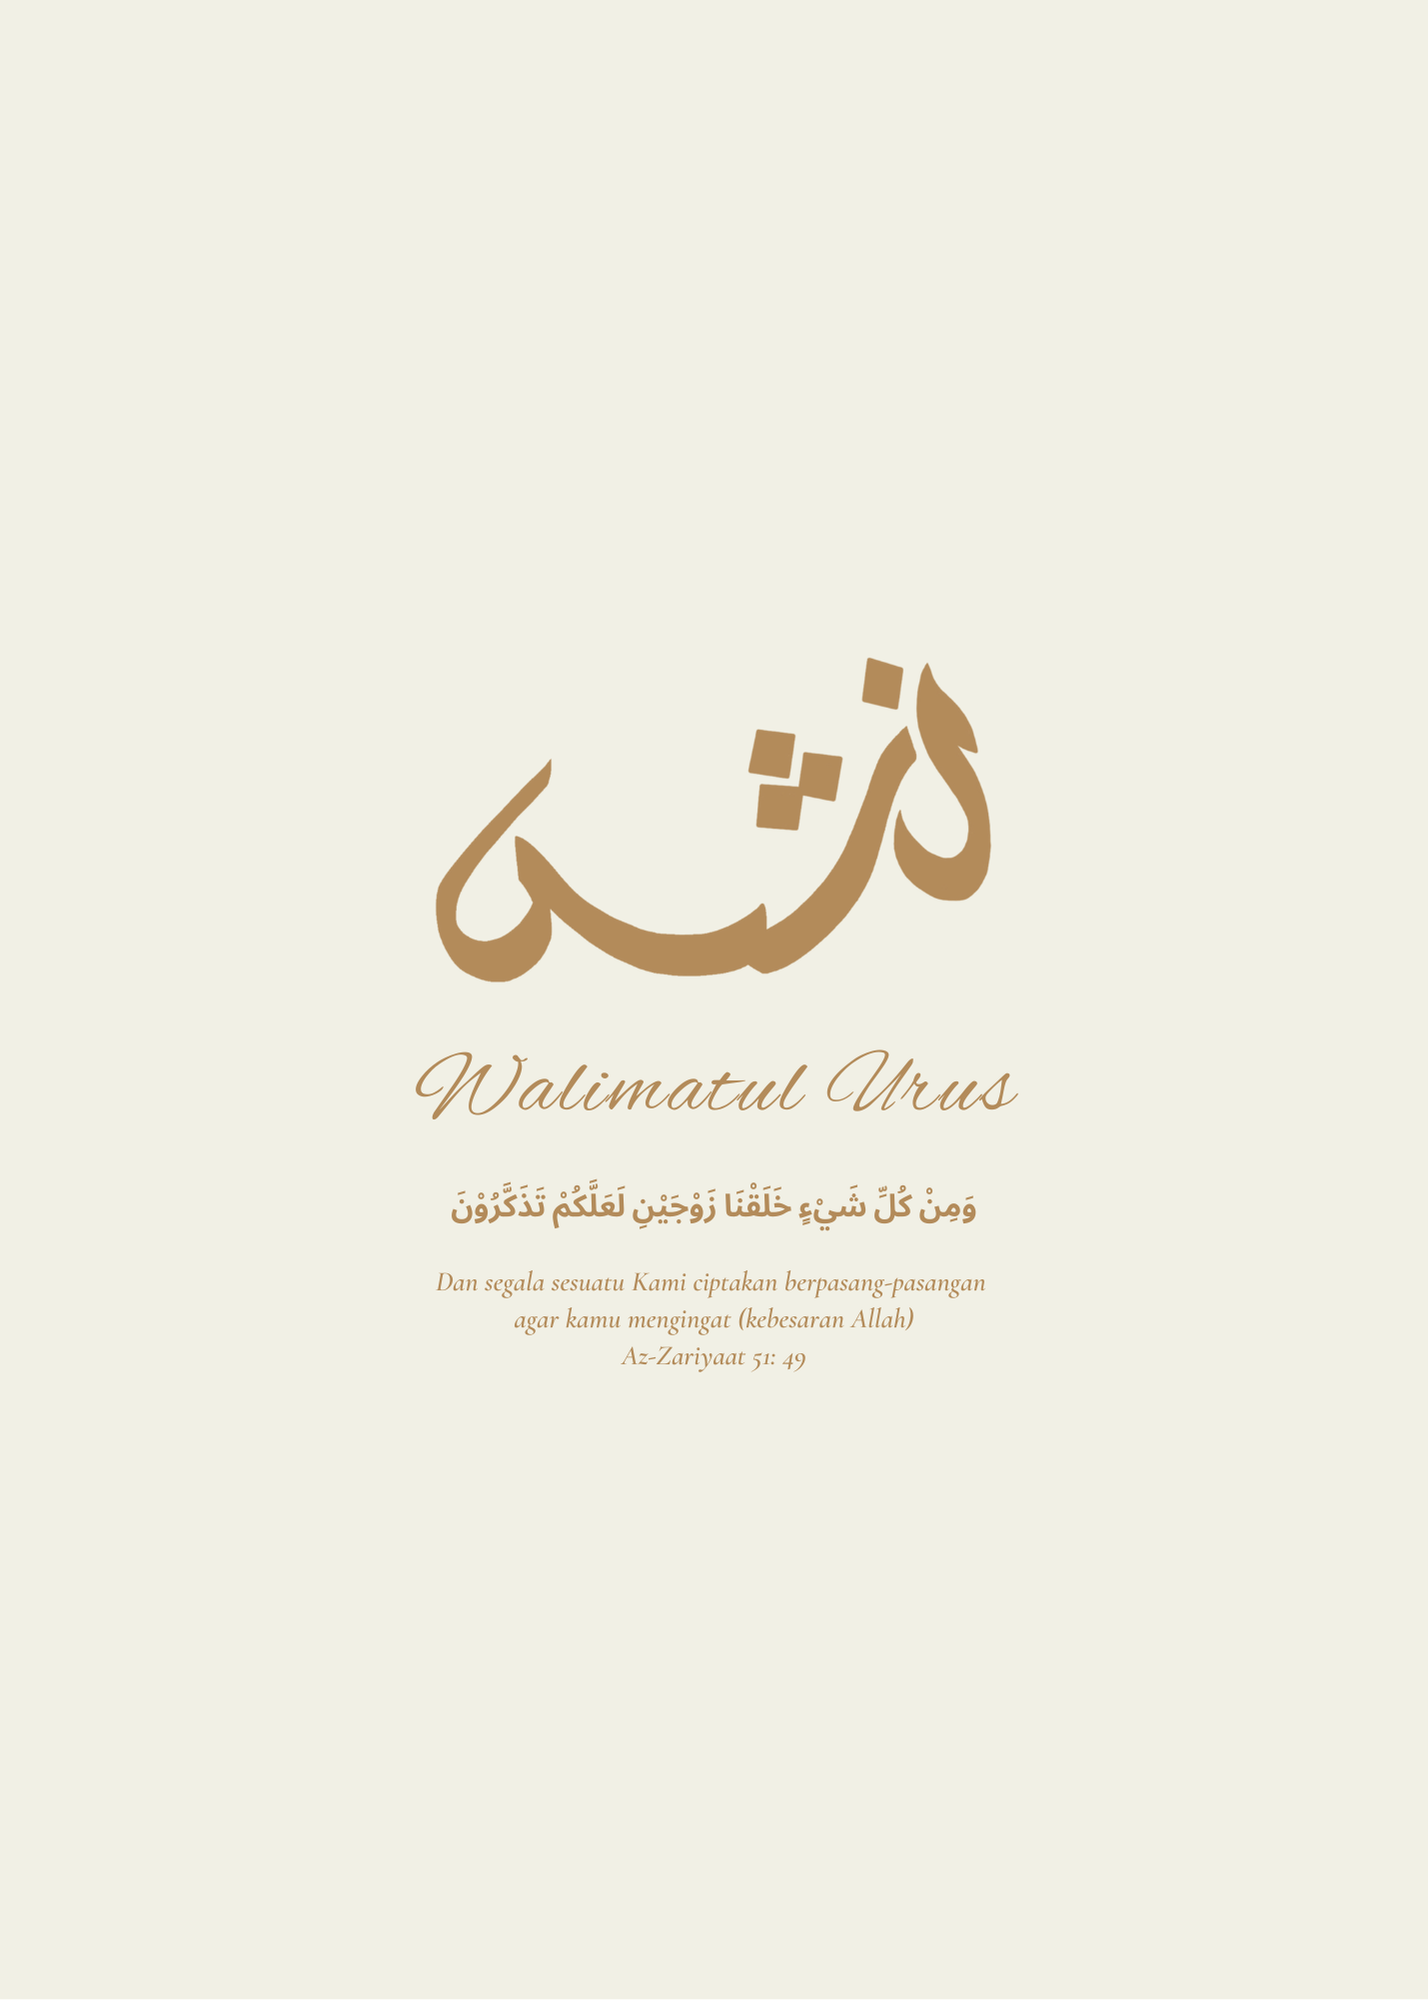
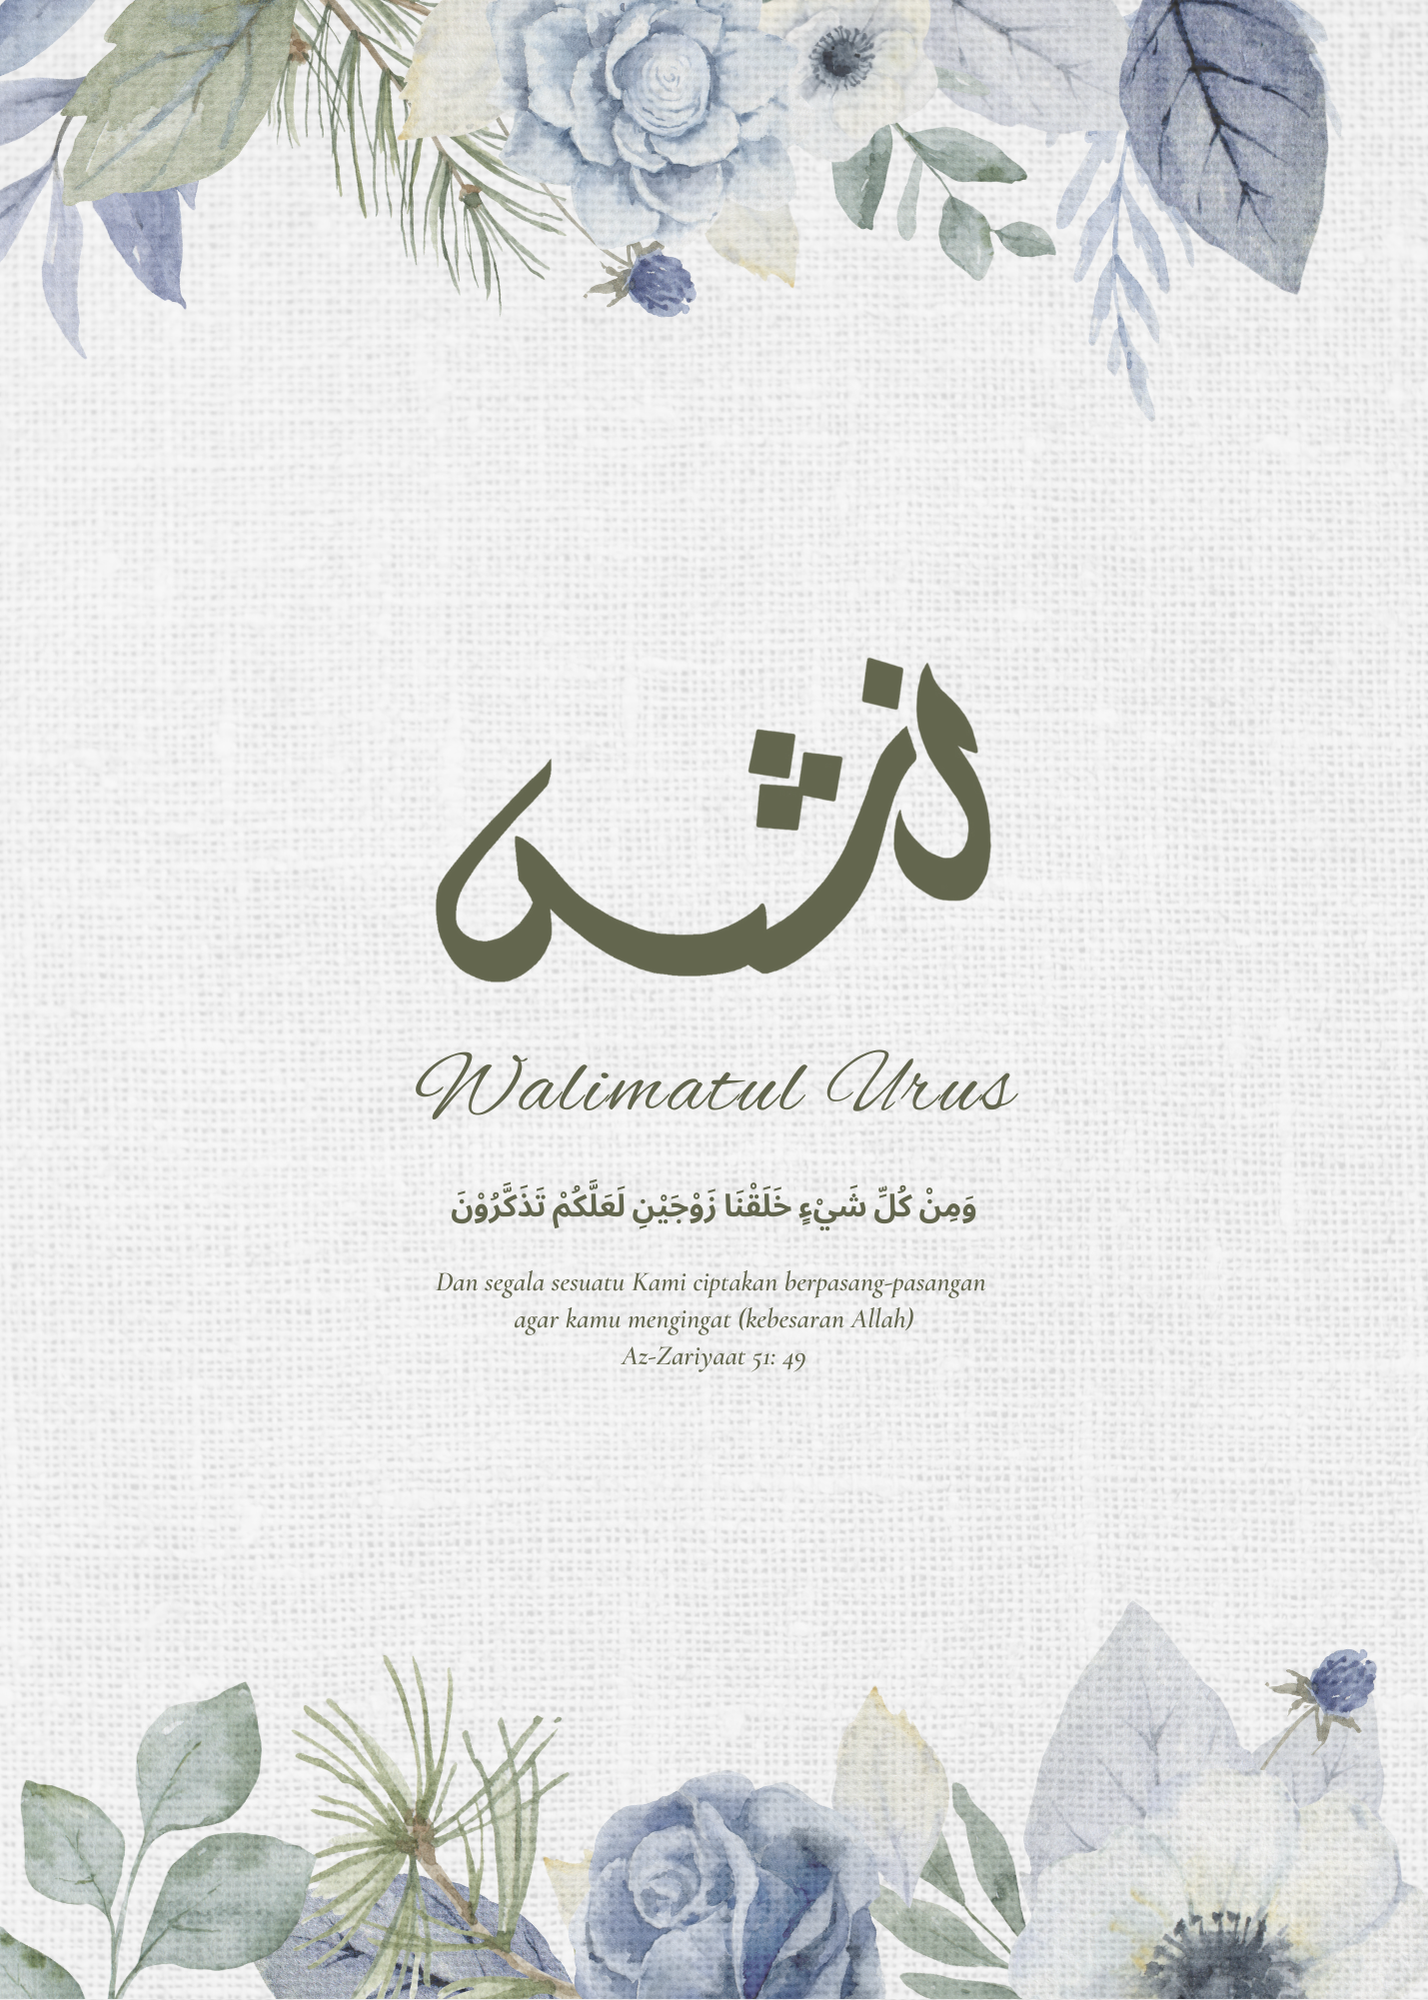
change UI

diff --git a/index.html b/index.html
@@ -88,7 +88,7 @@
                                         </div>
                                     </div>
                                 </div>
-                                <div class="section__height main-card opening-card animated fadeInDow d-none" style="background-image: url('img/marriednow-project/1.png')"></div>
+                                <div class="section__height main-card opening-card animated fadeInDow d-none" style="background-image: url('img/marriednow-project/2.png')"></div>
                             </section>
                         </main>
                     </div>
@@ -125,13 +125,13 @@
                         </ul>
                     </nav>
                     <div class="main-div d-none">
-                        <section class="container-fluid section__height main-card animated fadeInDow" style="background-image: url('img/marriednow-project/1.png')">
+                        <section class="container-fluid section__height main-card animated fadeInDow" style="background-image: url('img/marriednow-project/2.png')">
                             <div class="wrapper pb-16">
                                 <div class="align-items-center animated fadeInDow">
                                     <div class="container d-flex flex-column aligns-items-center justify-content-center pt-5 mt-4">
                                         <div class="row"> 
                                             <div class="col">
-                                                <div class="rouge-script-font main_text secondary-text text-center" style="color:#580101;">
+                                                <div class="rouge-script-font main_text secondary-text text-center" style="color:#11120e;">
                                                     Raikan Cinta
                                                 </div>
                                             </div>
@@ -139,7 +139,7 @@
                                         <div class="row"> 
                                             <div class="alice-font main_text primary-text text-center">
                                                 <p class="animated zoomIn alice-font">NAEEM</p> 
-                                                <p class="animated zoomIn alice-font" style="color:#580101;">&amp;</p> 
+                                                <p class="animated zoomIn alice-font" style="color:#11120e;">&amp;</p> 
                                                 <p class="animated zoomIn alice-font">SYAKIRAH</p>
                                             </div> 
                                         </div>

diff --git a/card-digital-text.css b/card-digital-text.css
@@ -1,11 +1,11 @@
 .main_text {
     text-shadow: 0.3px 0.3px 0.3px rgba(0, 0, 0, 0.25);
     /* color: #f4d390; */
-    color: #000000;
+    color: #26291f;
 }
 
 .primary-text {
-    color: #800000;
+    color: #26291f;
     font-size: 2.0em;
 }
 
@@ -14,7 +14,7 @@
 }
 
 .tertiary-text {
-    color: #800000;
+    color: #26291f;
     font-size: 18px;
 }
 

diff --git a/card-digital.css b/card-digital.css
@@ -299,7 +299,7 @@ body {
 
 .main-body {
     /* Specify the path to your A4 size image */
-  background-image: url('img/marriednow-project/2.png');
+  background-image: url('img/marriednow-project/4.png');
   
   /* Ensure the background image covers the entire area */
   background-size: contain;
